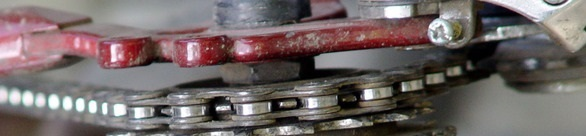
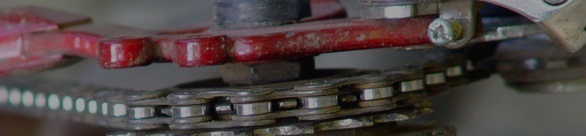
dulled down gears img, added CVMe

diff --git a/ClientApp/components/CVMe.tsx b/ClientApp/components/CVMe.tsx
@@ -1,0 +1,67 @@
+import * as React from 'react';
+import { RouteComponentProps } from 'react-router';
+import 'isomorphic-fetch';
+import { Row, Col, Card, CardImg, CardImgOverlay, CardDeck, CardBlock, CardBody } from 'reactstrap';
+
+interface CVMeDataState {
+    born: string;
+    workas: string;
+    email: string;
+    email_tld: string;
+}
+
+export class CVMe extends React.Component<{}, CVMeDataState> {
+    constructor() {
+        super({});
+        this.state = { born: '', workas: '', email: '', email_tld: '' };
+
+        fetch('http://localhost:8080/api/cv/born')
+            .then((response) => response.json() as Promise<string>)
+            .then(recv => {
+                this.setState({ born: recv});
+            });
+            fetch('http://localhost:8080/api/cv/workas')
+            .then((response) => response.json() as Promise<string>)
+            .then(recv => {
+                this.setState({ workas: recv});
+            });
+            fetch('http://localhost:8080/api/cv/email')
+            .then((response) => response.json() as Promise<string>)
+            .then(recv => {
+                this.setState({ email: recv});
+            });
+            fetch('http://localhost:8080/api/cv/email_tld')
+            .then((response) => response.json() as Promise<string>)
+            .then(recv => {
+                this.setState({ email_tld: recv});
+            });
+   }
+
+    public render() {
+        let contents = CVMe.renderCVOverview(this.state);
+        return (
+            <Row>
+                <Col></Col>
+                <Col xs="8">{ contents }</Col>
+                <Col></Col>
+            </Row>
+        );
+    }
+
+    private static renderCVOverview(data: CVMeDataState) {
+        return (
+            <div>
+            <CardDeck>
+                <Card>
+                    <CardBody><p><strong>Born</strong></p><p>{data.born}</p></CardBody>
+                </Card>
+                <Card>
+                    <CardBody><p><strong>Work as</strong></p><p>{data.workas}</p></CardBody>
+                </Card>
+                <Card>
+                    <CardBody><p><strong>Email</strong></p><p>{data.email}&#46;{data.email_tld}</p></CardBody>
+                </Card>
+            </CardDeck></div>
+        );
+    }
+}

diff --git a/ClientApp/components/CVQuote.tsx b/ClientApp/components/CVQuote.tsx
@@ -2,46 +2,51 @@ import * as React from 'react';
 import { RouteComponentProps } from 'react-router';
 import 'isomorphic-fetch';
 import { Card, CardImg, CardImgOverlay } from 'reactstrap';
-//import * as FA from 'react-icons/lib/fa';
+import * as FA from 'react-icons/lib/fa';
 
 interface CVQuoteDataState {
-    data: string;
-    loading: boolean;
+    quote: string;
+    quote_author: string;
 }
 
 export class CVQuote extends React.Component<{}, CVQuoteDataState> {
     constructor() {
         super({});
-        this.state = { data: '', loading: true };
+        this.state = { quote: '', quote_author: '' };
 
         fetch('http://localhost:8080/api/cv/quote')
             .then((response) => response.json() as Promise<string>)
             .then(recv => {
-                this.setState({ data: recv, loading: false });
+                this.setState({ quote: recv});
+            });
+            fetch('http://localhost:8080/api/cv/quote_author')
+            .then((response) => response.json() as Promise<string>)
+            .then(recv => {
+                this.setState({ quote_author: recv});
             });
     }
 
     public render() {
-        let contents = this.state.loading
-            ? <p><em>Loading...</em></p>
-            : CVQuote.renderCVOverview(this.state.data);
-//
+        let contents = CVQuote.renderCVOverview(this.state);
         return (
             <Card inverse>
                 <CardImg src="/img/gears.jpg" />
-                <CardImgOverlay>
+                <CardImgOverlay className="d-flex">
                     { contents }
                 </CardImgOverlay>
             </Card>
         );
     }
 
-    private static renderCVOverview(data: string) {
+    private static renderCVOverview(data: CVQuoteDataState) {
         return (
-            <div>
-                
-                {data}
-                
+            <div className="my-auto mx-auto text-center">
+                <h3>
+                    <FA.FaQuoteLeft/>
+                    {data.quote}
+                    <FA.FaQuoteRight/>
+                </h3>
+                <p><strong>{data.quote_author}</strong></p>
             </div>
         );
     }

diff --git a/ClientApp/components/Home.tsx b/ClientApp/components/Home.tsx
@@ -5,6 +5,7 @@ import {Row} from 'reactstrap';
 import {CVMain} from './CVMain';
 import {CVHead} from './CVHead';
 import {CVQuote} from './CVQuote';
+import {CVMe} from './CVMe';
 
 export class Home extends React.Component<RouteComponentProps<{}>> {
 
@@ -12,6 +13,8 @@ export class Home extends React.Component<RouteComponentProps<{}>> {
         return (
             <div>
                 <CVHead/>
+
+                <CVMe />
             
                 <CVMain/>
 
